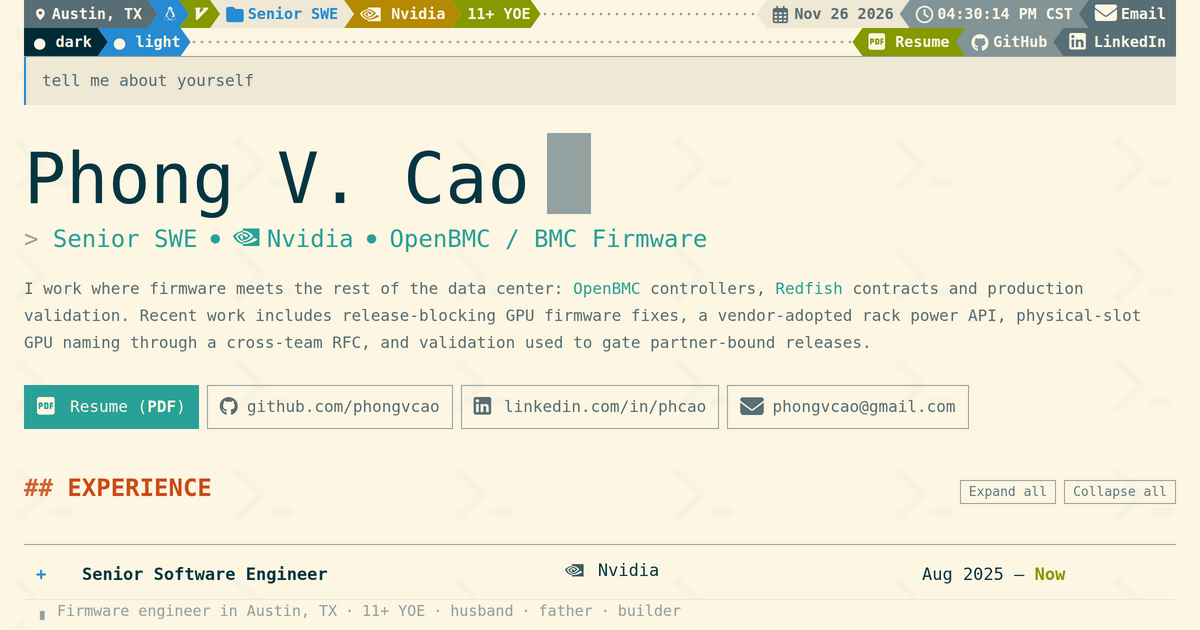
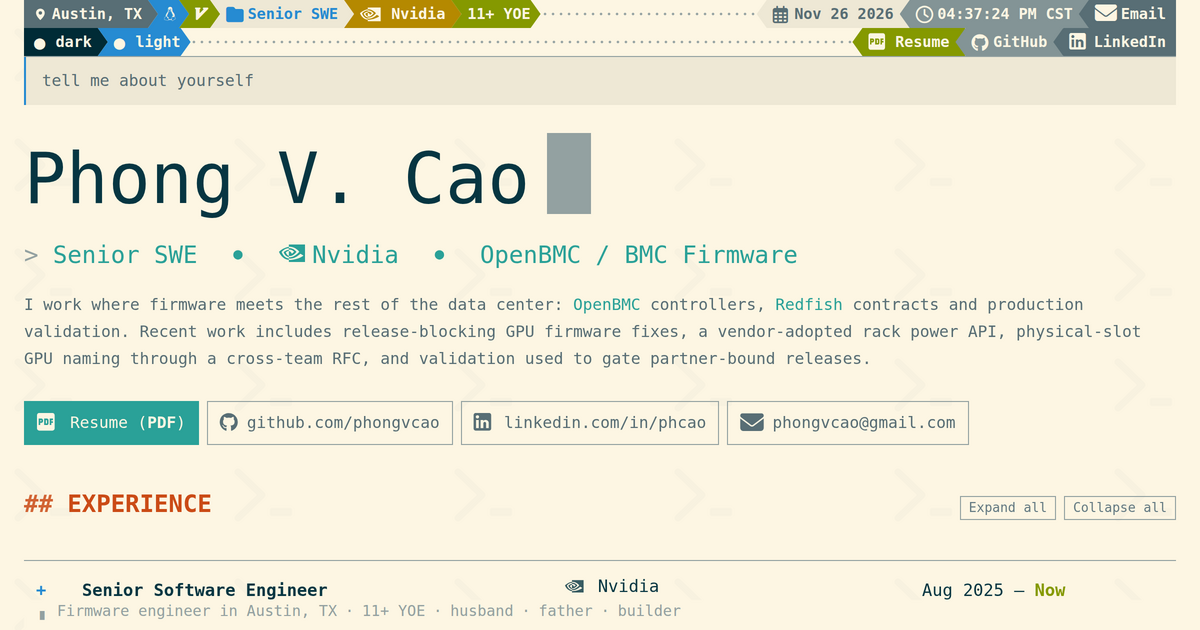
site: space under the name, and dots with room on both sides

diff --git a/index.html b/index.html
@@ -125,7 +125,7 @@
     <article class="response">
 
       <h1>Phong V. Cao<span class="cursor" aria-hidden="true"></span></h1>
-      <p class="role"><span class="mark" aria-hidden="true">&gt; </span>Senior SWE<span class="role-dot" aria-hidden="true">&#x25CF;</span><a class="company-link" href="https://www.nvidia.com/" target="_blank" rel="noopener"><svg class="role-logo" viewBox="0 0 24 24" aria-hidden="true" focusable="false"><use href="#logo-nvidia"/></svg>Nvidia</a><span class="role-dot" aria-hidden="true">&#x25CF;</span><a class="term-link" href="https://openbmc.org/" target="_blank" rel="noopener">OpenBMC</a> / BMC Firmware</p>
+      <p class="role"><span class="mark" aria-hidden="true">&gt; </span>Senior SWE<span class="role-group"><span class="role-dot" aria-hidden="true">&#x25CF;</span><a class="company-link" href="https://www.nvidia.com/" target="_blank" rel="noopener"><svg class="role-logo" viewBox="0 0 24 24" aria-hidden="true" focusable="false"><use href="#logo-nvidia"/></svg>Nvidia</a></span><span class="role-group"><span class="role-dot" aria-hidden="true">&#x25CF;</span><a class="term-link" href="https://openbmc.org/" target="_blank" rel="noopener">OpenBMC</a></span> / BMC Firmware</p>
       <p class="intro">I work where firmware meets the rest of the data center: <a class="term-link" href="https://openbmc.org/" target="_blank" rel="noopener"><code>OpenBMC</code></a> controllers, <a class="term-link" href="https://www.dmtf.org/standards/redfish" target="_blank" rel="noopener"><code>Redfish</code></a> contracts and production validation. Recent work includes release-blocking GPU firmware fixes, a vendor-adopted rack power API, physical-slot GPU naming through a cross-team RFC, and validation used to gate partner-bound releases.</p>
 
       <nav class="actions" aria-label="Links">

diff --git a/styles.css b/styles.css
@@ -158,7 +158,7 @@ a:hover {
 }
 
 h1 {
-  margin: 0 0 8px;
+  margin: 0 0 24px;
   color: var(--base2);
   font-size: clamp(2.5rem, 6vw, 4.375rem);
   font-weight: 400;
@@ -197,11 +197,16 @@ h1 {
   vertical-align: -0.12em;
 }
 
-/* Separator: the same disc the theme buttons use, in the link colour, sitting
-   in a slice of the monospace grid about two cells wide on each side. */
+/* Separator: the same disc the theme buttons use, in the link colour. The
+   group keeps the disc glued to the term after it, so a narrow screen breaks
+   before the dot, never leaving it alone at the start of a line. */
+.role-group {
+  white-space: nowrap;
+}
+
 .role-dot {
   display: inline-block;
-  width: 2.3em;
+  width: 5.2em;
   color: var(--cyan);
   font-size: 0.65em;
   line-height: 1;
@@ -1334,6 +1339,11 @@ h1 .cursor {
 
   .role {
     font-size: 1.25rem;
+  }
+
+  /* The desktop air around each dot eats a phone line; keep it compact. */
+  .role-dot {
+    width: 2.6em;
   }
 
   .intro {
